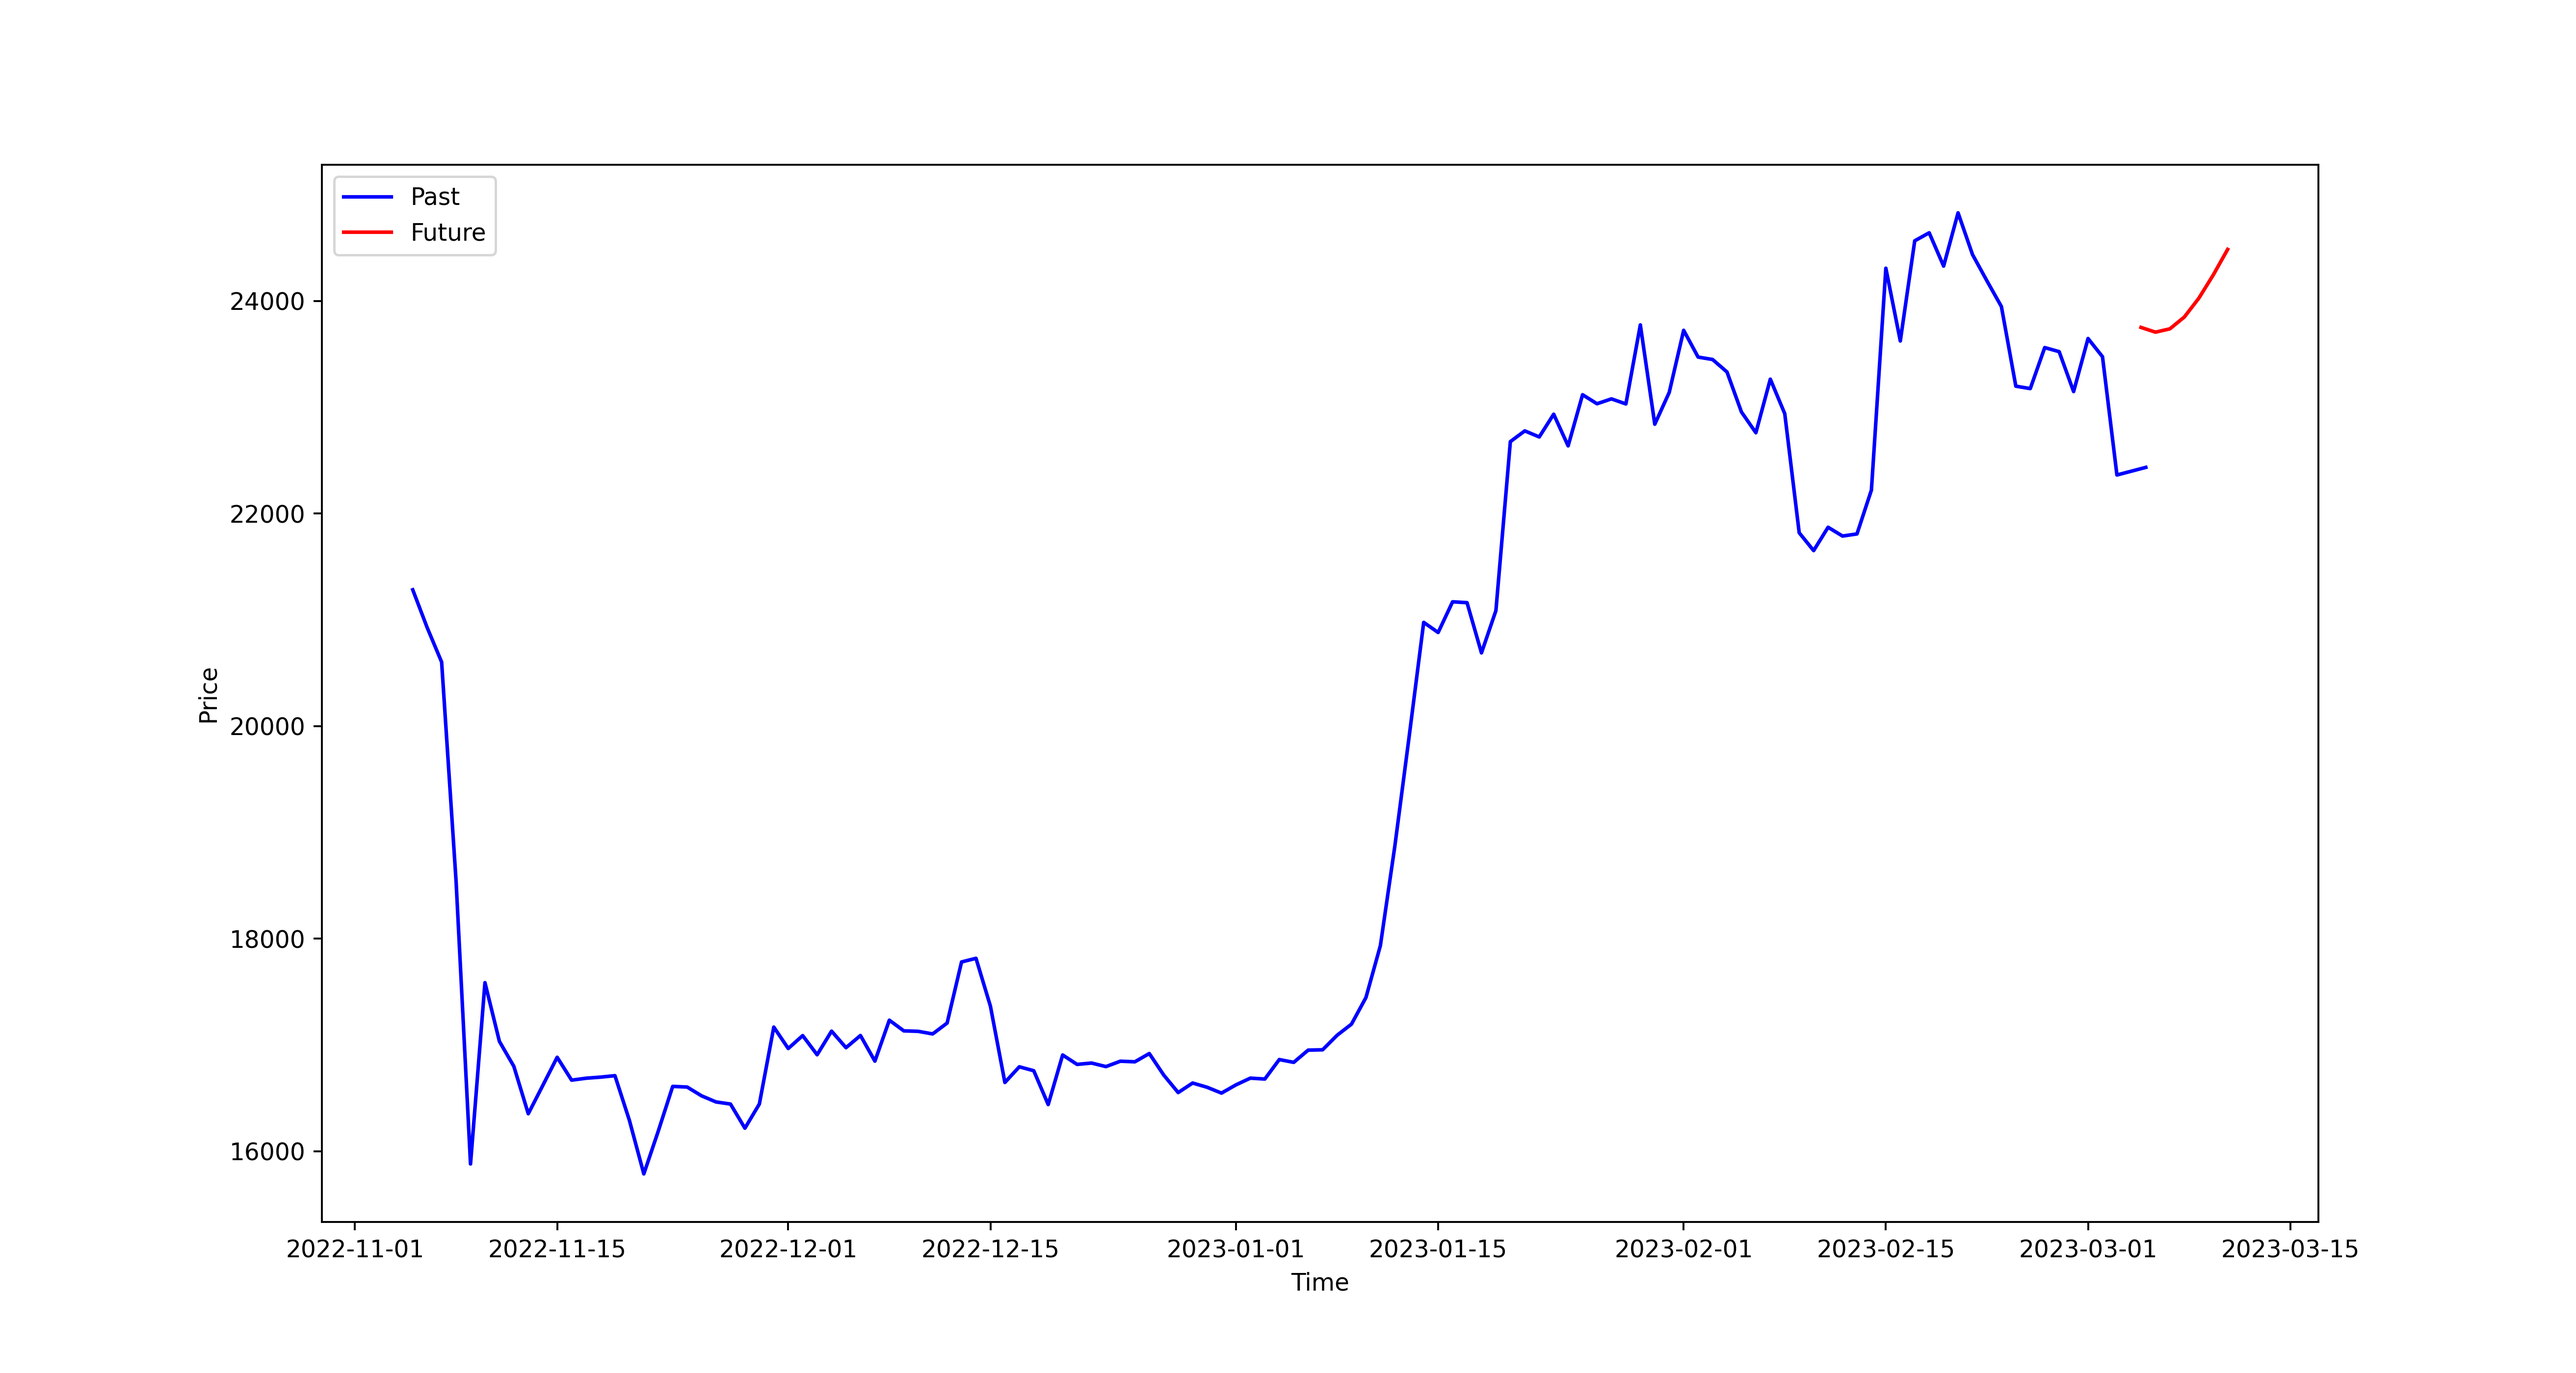
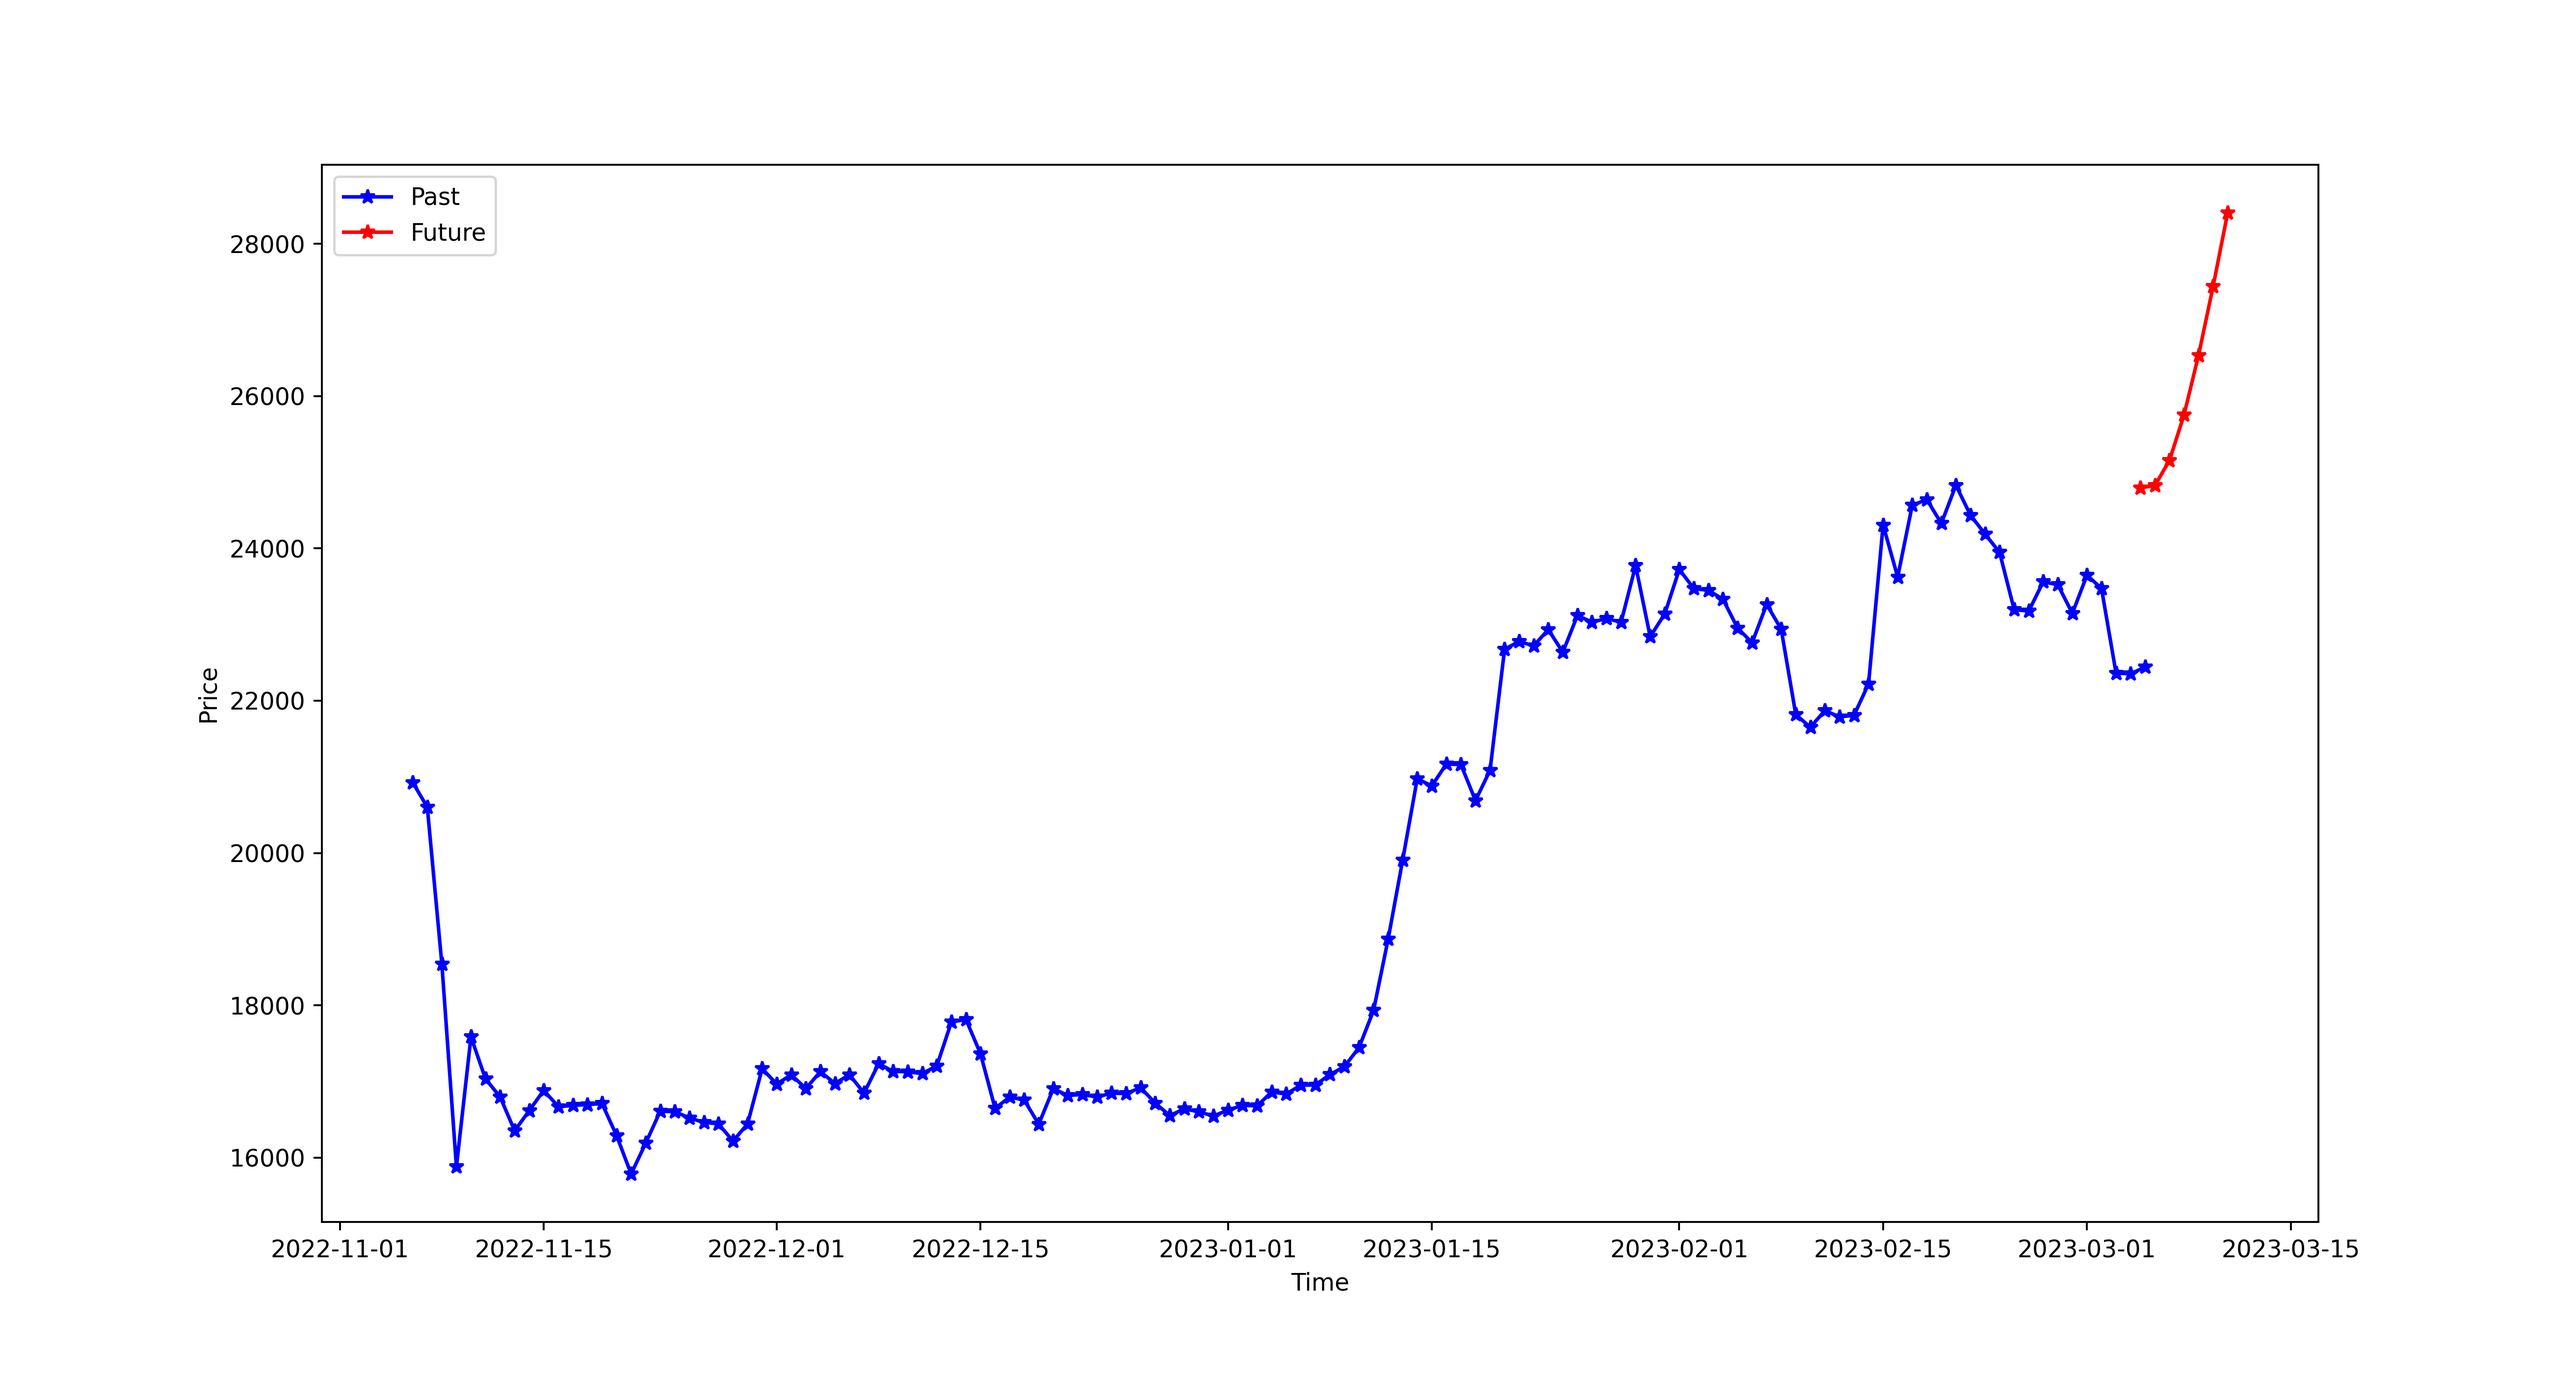
ADD: trying get output over multiple model iterations

diff --git a/lstm_forecast.py b/lstm_forecast.py
@@ -9,6 +9,7 @@ import pandas as pd
 import numpy as np
 from keras.models import Sequential
 from keras.layers import Dense, Dropout, LSTM, LeakyReLU, Activation#, GRU
+from keras.callbacks import EarlyStopping
 from sklearn.preprocessing import MinMaxScaler
 import yfinance as yf
 import matplotlib.pyplot as plt
@@ -71,14 +72,14 @@ def algorithm(X_train, y_train, X_test, y_test, n_steps):
     model.add(LSTM(50, activation=LeakyReLU(alpha=0.1)))
     model.add(Dropout(0.2))
     model.add(Dense(1))
-    # model.add(Activation('linear'))
+    model.add(Activation('softmax'))
     model.summary()
     # compile the model
     model.compile(optimizer='adam', loss='mse')
-
+    early_stop = EarlyStopping(monitor='val_loss', patience=15, mode='min', verbose=1)
     # fit the model to the training data
-    history = model.fit(X_train, y_train, epochs=50, batch_size=32, verbose=2,
-                         validation_data=(X_test, y_test))
+    history = model.fit(X_train, y_train, epochs=500, batch_size=32, verbose=2,
+                         validation_data=(X_test, y_test),callbacks=[early_stop])
     # Plot the training and validation loss
     plt.plot(history.history['loss'], label='Training loss',color='r')
     plt.plot(history.history['val_loss'], label='Validation loss',color='b')
@@ -110,13 +111,26 @@ def plot_data(df,next_7_days):
     start_date = datetime.fromtimestamp(df.index[-1].timestamp())
     date_list = [start_date + timedelta(days=x) for x in range(7)]
     plt.figure(figsize=(15,8))
-    plt.plot(df.tail(120).index,df['Close'].tail(120).values,color='b',label='Past')
-    plt.plot(date_list,next_7_days,color='r',label='Future')
+    plt.plot(df.tail(120).index,df['Close'].tail(120).values,color='b',marker='*',label='Past')
+    plt.plot(date_list,next_7_days,color='r',marker='*',label='Future')
     plt.xlabel('Time')
     plt.ylabel('Price')
     plt.legend()
     plt.savefig('final_prediction.png',dpi=350)
-    # plt.show()
+
+def plot_data_multiple(df,save_forecasts):
+    start_date = datetime.fromtimestamp(df.index[-1].timestamp())
+    date_list = [start_date + timedelta(days=x) for x in range(7)]
+    plt.figure(figsize=(15,8))
+    plt.plot(df.tail(120).index,df['Close'].tail(120).values,color='b',marker='*',label='Past')
+    for i in range(0,5):
+        label_val = 'Future_' + str(i)
+        plt.plot(date_list,save_forecasts[i],marker='*',label=label_val)
+    plt.xlabel('Time')
+    plt.ylabel('Price')
+    plt.legend()
+    plt.show()
+    # 
 # for i in range(60, 2310):
 #     X_train.append(training_set[i-60:i])
 #     y_train.append(training_set[i])
@@ -179,9 +193,13 @@ def main():
     # prepare the data for input into the LSTM model
     X, y = prepare_data(df['Close'].values, n_steps)
     X_train, y_train, X_test, y_test = split_data(X,y)
-    model_val = algorithm(X_train, y_train, X_test, y_test, n_steps)
-    df, future_vals = predict_future(df,n_steps,model_val,scaler)
-    plot_data(df,future_vals)
+    save_forecasts = []
+    for i in range(0,5):
+        model_val = algorithm(X_train, y_train, X_test, y_test, n_steps)
+        df, future_vals = predict_future(df,n_steps,model_val,scaler)
+        save_forecasts.append(future_vals)
+    plot_data_multiple(df,save_forecasts)
+    # plot_data(df,future_vals)
     # print(X)
     # print(y)
 if __name__ == "__main__":
